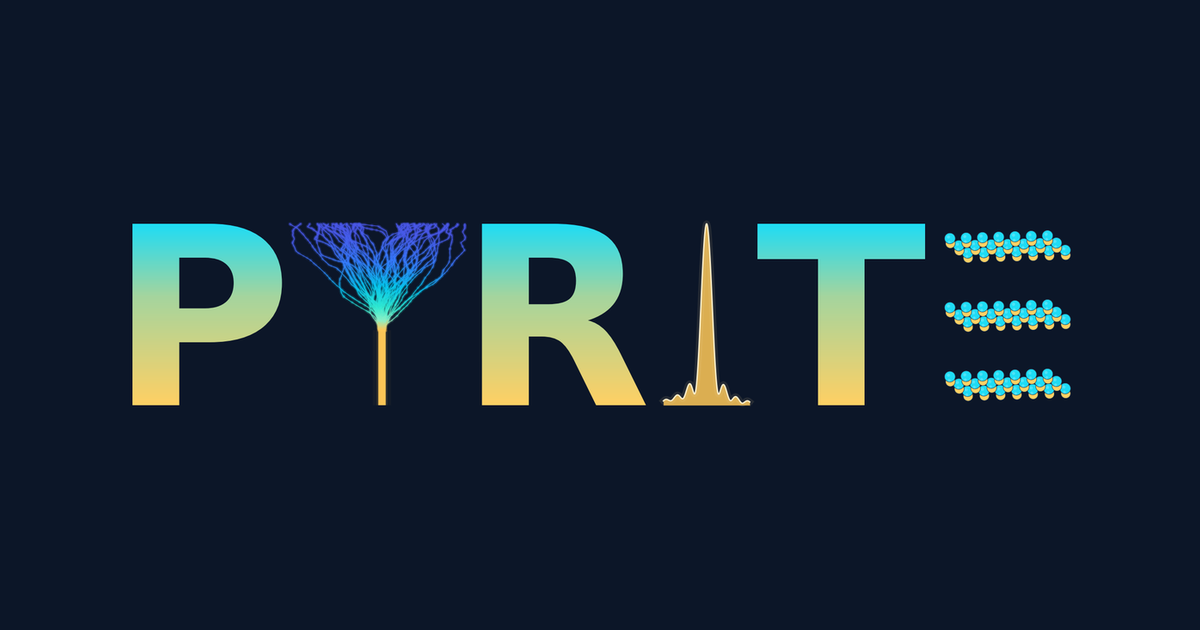
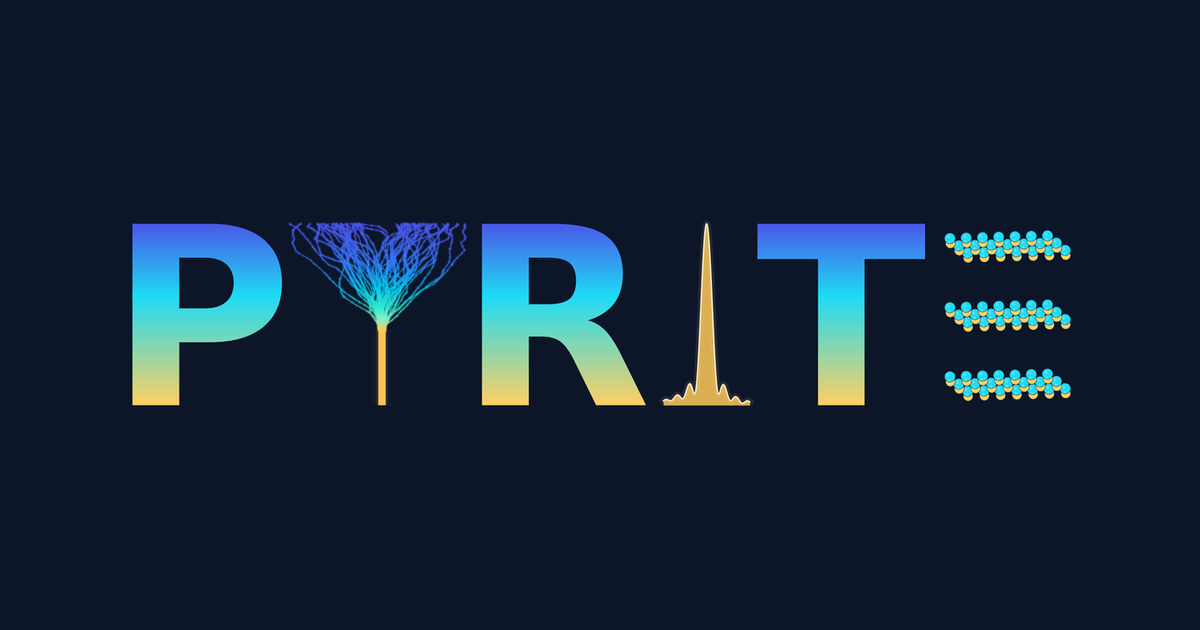
feat(branding): tweak lettering gradient

Changed region(s): [[0.4008, 0.3317, 0.5242, 0.6333], [0.0925, 0.3317, 0.2467, 0.6333], [0.6167, 0.3317, 0.7708, 0.6333]]

diff --git a/scripts/pyrite_logo.py b/scripts/pyrite_logo.py
@@ -60,8 +60,8 @@ GLYPH_PALETTE = LinearSegmentedColormap.from_list(
     "pyrite_letter_gradient",
     [
         (0.0, ATOM_GOLD),
-        (0.6, GLYPH_MID),
-        (1.0, ATOM_BLUE),
+        (0.6, ATOM_BLUE),
+        (1.0, "#4A58E8"),
     ],
 )
 PALETTE = LinearSegmentedColormap.from_list(
